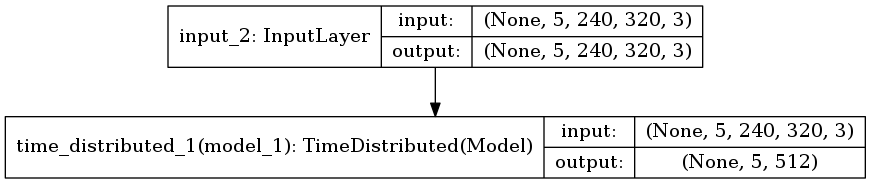
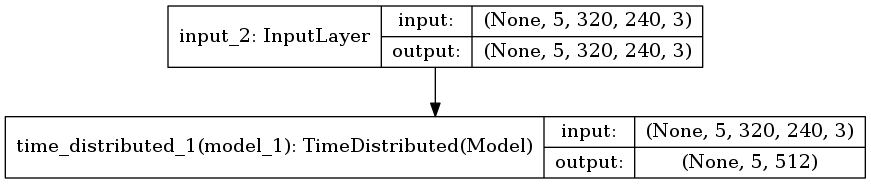
v2 is working as expected.

Changed region(s): [[0.837, 0.6522, 0.93, 0.7609], [0.651, 0.2174, 0.744, 0.3261], [0.651, 0.0543, 0.744, 0.1359]]

diff --git a/noveou_train_netvlad_v2.py b/noveou_train_netvlad_v2.py
@@ -28,6 +28,7 @@ from PittsburgRenderer import PittsburgRenderer
 
 
 def custom_loss(y_true, y_pred):
+    """ All pair loss """
     nP = 2
     nN = 2
 
@@ -51,6 +52,37 @@ def custom_loss(y_true, y_pred):
     return K.maximum(zeros, aux)
 
 
+def custom_metric( y_true, y_pred ):
+    nP = 2
+    nN = 2
+
+    # y_pred.shape = shape=(?, 5, 512)
+    q = y_pred[:,0:1,:]    # shape=(?, 1, 512)
+    P = y_pred[:,1:1+nP,:] # shape=(?, 2, 512)
+    N = y_pred[:,1+nP:,:]  # shape=(?, 2, 512)
+    q_dot_P = keras.layers.dot( [q,P], axes=-1 )  # shape=(?, 1, 2)
+    q_dot_N = keras.layers.dot( [q,N], axes=-1 )  # shape=(?, 1, 2)
+
+    epsilon = 0.0#0.1  # Your epsilon here
+
+    zeros = K.zeros((nP, nN), dtype='float32')
+    ones_m = K.ones(nP, dtype='float32')
+    ones_n = K.ones(nN, dtype='float32')
+    # code.interact( local=locals() , banner='custom_loss')
+    aux = ones_m[None, :, None] * q_dot_N[:, None, :] \
+          - q_dot_P[:, :, None] * ones_n[None, None, :] \
+          + epsilon * ones_m[:, None] * ones_n[None, :]
+
+    return K.min(q_dot_P) - q_dot_N
+
+    Q = K.less(zeros, aux)
+    K.print_tensor( Q, message='Q : \n')
+    r = K.sum( K.cast(Q, 'float32' ) )
+    code.interact( local=locals() )
+    return r
+
+
+
 if __name__ == '__main__':
     nP = 2
     nN = 2
@@ -58,10 +90,13 @@ if __name__ == '__main__':
     #------------------------------------------------------------------------
     # Load data on RAM
     #------------------------------------------------------------------------
-    PTS_BASE = '/Bulk_Data/data_Akihiko_Torii/Pitssburg/'
-    pr = PittsburgRenderer( PTS_BASE )
+    # PTS_BASE = '/Bulk_Data/data_Akihiko_Torii/Pitssburg/'
+    # pr = PittsburgRenderer( PTS_BASE )
+
+    TTM_BASE = '/Bulk_Data/data_Akihiko_Torii/Tokyo_TM/tokyoTimeMachine/' #Path of Tokyo_TM
+    pr = TimeMachineRender( TTM_BASE )
     D = []
-    for s in range(100):
+    for s in range(50):
         print 'get a sample #', s
         a,_ = pr.step(nP=nP, nN=nN, return_gray=False, resize=(240,320), apply_distortions=False, ENABLE_IMSHOW=False)
         print a.shape
@@ -87,12 +122,14 @@ if __name__ == '__main__':
     # cnn = input_img
     cnn = make_vgg( input_img )
 
-    out = NetVLADLayer(num_clusters = 16)( cnn )
+    out, out_amap = NetVLADLayer(num_clusters = 16)( cnn )
     # code.interact( local=locals() )
     model = keras.models.Model( inputs=input_img, outputs=out )
 
     model.summary()
     keras.utils.plot_model( model, to_file='core.png', show_shapes=True )
+
+
 
 
     #--------------------------------------------------------------------------
@@ -107,10 +144,23 @@ if __name__ == '__main__':
     keras.utils.plot_model( t_model, to_file='core_t.png', show_shapes=True )
 
 
+    # parallel_t_model = keras.utils.multi_gpu_model(t_model, gpus=2)
+
+
     #--------------------------------------------------------------------------
     # Compile
     #--------------------------------------------------------------------------
-    t_model.compile( loss=custom_loss, optimizer='sgd' )
+    rmsprop = keras.optimizers.RMSprop(lr=0.001, rho=0.9, epsilon=None, decay=0.01, clipnorm=1.0)
+    t_model.compile( loss=custom_loss, optimizer=rmsprop, metrics=[custom_loss] )
+
+    # TODO: callbacks : Tensorboard, lr, multigpu
+    # TODO: Validation split and custom validation function
+    import tensorflow as tf
+    tb = tf.keras.callbacks.TensorBoard( log_dir='tensorboard.logs/noveou' )
+    reduce_lr = tf.keras.callbacks.ReduceLROnPlateau(monitor='val_loss', factor=0.2, patience=5, min_lr=0.001)
 
     t_model.fit( x=D, y=np.zeros(D.shape[0]),
-                epochs=5, batch_size=20, verbose=2 )
+                epochs=5, batch_size=3, verbose=1, validation_split=0.1,
+                callbacks=[tb] )
+
+    model.save( 'model.keras/core_model_tokyotm.keras')

diff --git a/CustomNets.py b/CustomNets.py
@@ -33,10 +33,10 @@ class MyLayer(Layer):
         super(MyLayer, self).build(input_shape)  # Be sure to call this at the end
 
     def call(self, x):
-        return K.dot(x, self.kernel)
+        return [K.dot(x, self.kernel), K.dot(x, self.kernel)]
 
     def compute_output_shape(self, input_shape):
-        return (input_shape[0], self.output_dim)
+        return [(input_shape[0], self.output_dim), (input_shape[0], self.output_dim)]
 
 
 class NetVLADLayer( Layer ):
@@ -68,8 +68,8 @@ class NetVLADLayer( Layer ):
         # soft-assignment.
         s = K.conv2d( x, self.kernel, padding='same' ) + self.bias
         a = K.softmax( s )
-        # self.amap = K.argmax( a, -1 )
-        # print 'amap.shape', self.amap.shape
+        self.amap = K.argmax( a, -1 )
+        print 'amap.shape', self.amap.shape
 
         # Dims used hereafter: batch, H, W, desc_coeff, cluster
         a = K.expand_dims( a, -2 )
@@ -91,34 +91,37 @@ class NetVLADLayer( Layer ):
         v = K.batch_flatten( v )
         v = K.l2_normalize( v, axis=-1 )
 
-        return v
+        return [v, self.amap]
 
     def compute_output_shape( self, input_shape ):
         # return (input_shape[0], self.v.shape[-1].value )
-        return (input_shape[0], self.K*self.D )
+        # return [(input_shape[0], self.K*self.D ), (input_shape[0], self.amap.shape[1].value, self.amap.shape[2].value) ]
+        return [(input_shape[0], self.K*self.D ), (input_shape[0], input_shape[1], input_shape[2]) ]
 
 
 def make_vgg( input_img ):
+    r_l2=keras.regularizers.l2(0.01)
+    r_l1=keras.regularizers.l1(0.01)
 
-    x_64 = keras.layers.Conv2D( 64, (3,3), padding='same', activation='relu' )( input_img )
-    # BN
-    x_64 = keras.layers.Conv2D( 64, (3,3), padding='same', activation='relu' )( x_64 )
-    # BN
+    x_64 = keras.layers.Conv2D( 64, (3,3), padding='same', activation='relu', kernel_regularizer=r_l2, activity_regularizer=r_l1 )( input_img )
+    x_64 = keras.layers.normalization.BatchNormalization()( x_64 )
+    x_64 = keras.layers.Conv2D( 64, (3,3), padding='same', activation='relu', kernel_regularizer=r_l2, activity_regularizer=r_l1 )( x_64 )
+    x_64 = keras.layers.normalization.BatchNormalization()( x_64 )
     x_64 = keras.layers.MaxPooling2D( pool_size=(2,2), padding='same' )( x_64 )
 
 
-    x_128 = keras.layers.Conv2D( 128, (3,3), padding='same', activation='relu' )( x_64 )
-    # BN
-    x_128 = keras.layers.Conv2D( 128, (3,3), padding='same', activation='relu' )( x_128 )
-    # BN
+    x_128 = keras.layers.Conv2D( 128, (3,3), padding='same', activation='relu', kernel_regularizer=r_l2, activity_regularizer=r_l1 )( x_64 )
+    x_128 = keras.layers.normalization.BatchNormalization()( x_128 )
+    x_128 = keras.layers.Conv2D( 128, (3,3), padding='same', activation='relu', kernel_regularizer=r_l2, activity_regularizer=r_l1 )( x_128 )
+    x_128 = keras.layers.normalization.BatchNormalization()( x_128 )
     x_128 = keras.layers.MaxPooling2D( pool_size=(2,2), padding='same' )( x_128 )
 
 
-    x_256 = keras.layers.Conv2D( 256, (3,3), padding='same', activation='relu' )( x_128 )
-    # # BN
-    x_256 = keras.layers.Conv2D( 256, (3,3), padding='same', activation='relu' )( x_256 )
-    # # BN
-    x_256 = keras.layers.MaxPooling2D( pool_size=(2,2), padding='same' )( x_256 )
+    # x_256 = keras.layers.Conv2D( 256, (3,3), padding='same', activation='relu' )( x_128 )
+    # x_256 = keras.layers.normalization.BatchNormalization()( x_256 )
+    # x_256 = keras.layers.Conv2D( 256, (3,3), padding='same', activation='relu' )( x_256 )
+    # x_256 = keras.layers.normalization.BatchNormalization()( x_256 )
+    # x_256 = keras.layers.MaxPooling2D( pool_size=(2,2), padding='same' )( x_256 )
 
     #
     # x_512 = keras.layers.Conv2D( 512, (3,3), padding='same', activation='relu' )( x_256 )

diff --git a/TimeMachineRender.py b/TimeMachineRender.py
@@ -216,7 +216,7 @@ class TimeMachineRender:
     ## Given a set for example, L = [(25, 0, 7), (25, 0, 5), (25, 0, 6), (25, 0, 4), (25, 0, 4)]
     ## Load corresponding images. Returns a np.array of size nx240x320x3
     ## If apply_distortions is true, random distortions will be applied. Currently planar rotations with angles as Gaussian distribution centered at 0, sigma=25
-    def _get_images(self, L, apply_distortions=False, return_gray=False, PRINTING=False):
+    def _get_images(self, L, resize=None, apply_distortions=False, return_gray=False, PRINTING=False):
         pyDB = self.pyDB
         A = []
         for loc_idx, yr_idx, im_idx in L:
@@ -232,7 +232,10 @@ class TimeMachineRender:
                 if PRINTING:
                     print 'imread : ', file_name
                 # TODO blur before resizing
-                IM = cv2.resize( cv2.imread( file_name ) , (320,240)  )
+                if resize is None:
+                    IM = cv2.imread( file_name )
+                else:
+                    IM = cv2.resize( cv2.imread( file_name ) , resize  )
                 # IM = cv2.resize( cv2.imread( file_name ) , (160,120)  )
             except:
                 print 'im_indx error', im_list
@@ -270,7 +273,8 @@ class TimeMachineRender:
                 IM = np.expand_dims( IM_gray, axis=2 )
 
 
-            A.append( IM[:,:,::-1] )
+            # A.append( IM[:,:,::-1] )
+            A.append( IM )
 
         return np.array(A)
         #cv2.imshow( 'win', np.concatenate( A, axis=1 )  )
@@ -282,7 +286,7 @@ class TimeMachineRender:
     # Gives out `nP` number of positive samples of query image. `nN` number of negative samples.
     # Note, query image is the 0th image. Next nP will be positive, next nN will be negative.
     # return_gray=True will return a (N,240,320,1), ie gray scale images
-    def step(self, nP, nN, return_gray=False, ENABLE_IMSHOW=False):
+    def step(self, nP, nN, resize=None, apply_distortions=False, return_gray=False, ENABLE_IMSHOW=False):
         # np.random.seed(1)
         # Will generate a total of 1+nP+nN number of images. 1st is the query image (choosen randomly)
         # Next nP will be positive Samples. Next nN will be negative samples
@@ -297,9 +301,9 @@ class TimeMachineRender:
         # print 'd : ', diffs
 
         PRINTING = False
-        q_im = self._get_images( [(loc_idx, yr_idx, im_idx)], return_gray=return_gray , PRINTING=PRINTING )
-        sims_im = self._get_images(sims[0:nP], apply_distortions=True, return_gray=return_gray, PRINTING=PRINTING)
-        diffs_im = self._get_images(diffs, return_gray=return_gray, PRINTING=PRINTING)
+        q_im = self._get_images( [(loc_idx, yr_idx, im_idx)], resize=resize, apply_distortions=apply_distortions, return_gray=return_gray , PRINTING=PRINTING )
+        sims_im = self._get_images(sims[0:nP], resize=resize, apply_distortions=apply_distortions, return_gray=return_gray, PRINTING=PRINTING)
+        diffs_im = self._get_images(diffs, resize=resize, apply_distortions=apply_distortions, return_gray=return_gray, PRINTING=PRINTING)
 
 
         # print q_im.shape

diff --git a/test_keras_model.py b/test_keras_model.py
@@ -8,6 +8,7 @@ from keras.engine.topology import Layer
 import keras
 import code
 import numpy as np
+import time
 
 import cv2
 
@@ -22,19 +23,35 @@ from TimeMachineRender import TimeMachineRender
 from WalksRenderer import WalksRenderer
 from PittsburgRenderer import PittsburgRenderer
 
+# Custom Utils
+from ColorLUT import ColorLUT
+colx = ColorLUT()
 
 if __name__ == '__main__':
-    nP = 2
-    nN = 2
+    # WR_BASE = '/Bulk_Data/keezi_walks/'
+    WR_BASE = '/media/mpkuse/Bulk_Data/keezi_walks/'
+    wr = WalksRenderer( WR_BASE )
+    for i in range(20):
+        a,b = wr.step(nP=10, nN=10)
+        print a.shape
+        print b.shape
+        cv2.waitKey(0)
+
+if __name__ == '__1main__':
+    nP = 3
+    nN = 1
 
     #------
     # Load data on RAM
     #------
 
-    PTS_BASE = '/Bulk_Data/data_Akihiko_Torii/Pitssburg/'
-    pr = PittsburgRenderer( PTS_BASE )
+    # PTS_BASE = '/Bulk_Data/data_Akihiko_Torii/Pitssburg/'
+    # pr = PittsburgRenderer( PTS_BASE )
 
-    a, _ = pr.step( nP=5, nN=5, return_gray=False, resize=None, apply_distortions=False, ENABLE_IMSHOW=False )
+    TTM_BASE = '/Bulk_Data/data_Akihiko_Torii/Tokyo_TM/tokyoTimeMachine/' #Path of Tokyo_TM
+    pr = TimeMachineRender( TTM_BASE )
+
+    a, _ = pr.step( nP=nP, nN=nN, return_gray=False, resize=None, apply_distortions=False, ENABLE_IMSHOW=False )
 
     input_img = keras.layers.Input( shape=(480, 640, 3 ) )
     # cnn = input_img
@@ -44,7 +61,20 @@ if __name__ == '__main__':
     # code.interact( local=locals() )
     model = keras.models.Model( inputs=input_img, outputs=out )
 
-    model.load_weights( 'model.keras/core_model.keras' )
+    # model.load_weights( 'model.keras/core_model_tryh.keras' )
+    model.load_weights( 'model.keras/core_model_tryh.keras' )
+    # model.load_weights( 'model.keras/core_model_tokyotm.keras' )
 
-    out = model.predict( a[:,:,:,:] )
-    np.matmul( out[0:1,:], np.transpose( out[1:,:] ) )
+    # quit()
+    start_t = time.time()
+    for x in range(a.shape[0]):
+        out, out_amap = model.predict( a[x:x+1,:,:,:] )
+        out_amap_lut = colx.lut( out_amap[0,:,:] )
+        cv2.imshow( 'im', a[x,:,:,:].astype('uint8'))
+        cv2.imshow( 'out_amap_lut', out_amap_lut )
+        cv2.waitKey(0)
+
+    print 'predicted in %4.2fms' %( 1000. * (time.time() - start_t))
+    out, out_amap = model.predict( a[:,:,:,:] )
+    M = np.matmul( out[0:1,:], np.transpose( out[1:,:] ) )
+    print M

diff --git a/noveou_train_netvlad.py b/noveou_train_netvlad.py
@@ -29,7 +29,7 @@ from WalksRenderer import WalksRenderer
 from PittsburgRenderer import PittsburgRenderer
 
 
-if __name__ == '__main__': # Testing renderers
+if __name__ == '__1main__': # Testing renderers
     nP = 2
     nN = 2
 
@@ -159,8 +159,8 @@ if __name__ == '__main__': # Testing renderers
 
 
 
-
-if __name__ == '__1main__':
+from CustomNets import MyLayer
+if __name__ == '__main__':
     input_img = keras.layers.Input( shape=(256,) )
 
     out = MyLayer( 15 )( input_img )

diff --git a/test_render.py b/test_render.py
@@ -59,6 +59,8 @@ def demo_walks():
         preloading image frames of the videos.
     """
     WR_BASE = './keezi_walks/'
+    WR_BASE = '/media/mpkuse/Bulk_Data/keezi_walks/'
+
     wr = WalksRenderer( WR_BASE )
     for i in range(20):
         a,b = wr.step(nP=10, nN=10)
@@ -90,7 +92,7 @@ def demo_panda():
     for i in range(20):
         a,b = app.step(16)
 
-demo_pittsburg()
-# demo_walks()
+# demo_pittsburg()
+demo_walks()
 # demo_tokyotm()
 # demo_panda()

diff --git a/WalksRenderer.py b/WalksRenderer.py
@@ -39,6 +39,7 @@ class WalksRenderer:
             cap = cv2.VideoCapture( file_name )
 
             if cap.isOpened():
+
                 nFrames = cap.get( cv2.CAP_PROP_FRAME_COUNT )
                 print tcolor.OKBLUE, '+    %03d nFrames=%06d' %(_i, nFrames), file_name, tcolor.ENDC
                 self.captures.append( (cap, nFrames) )
